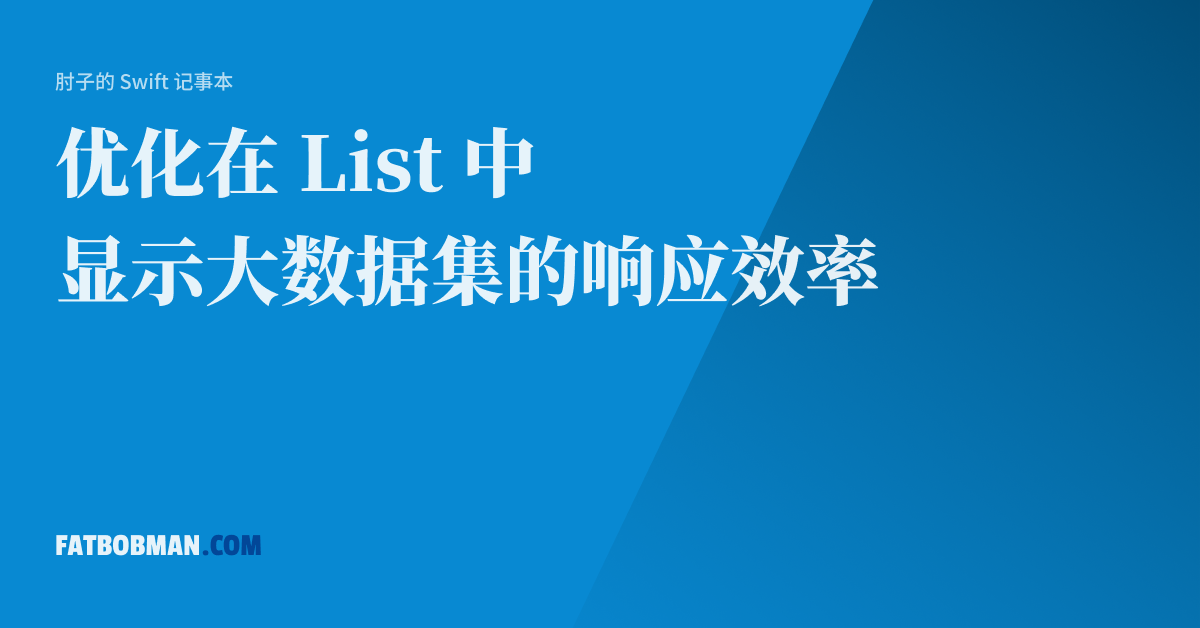
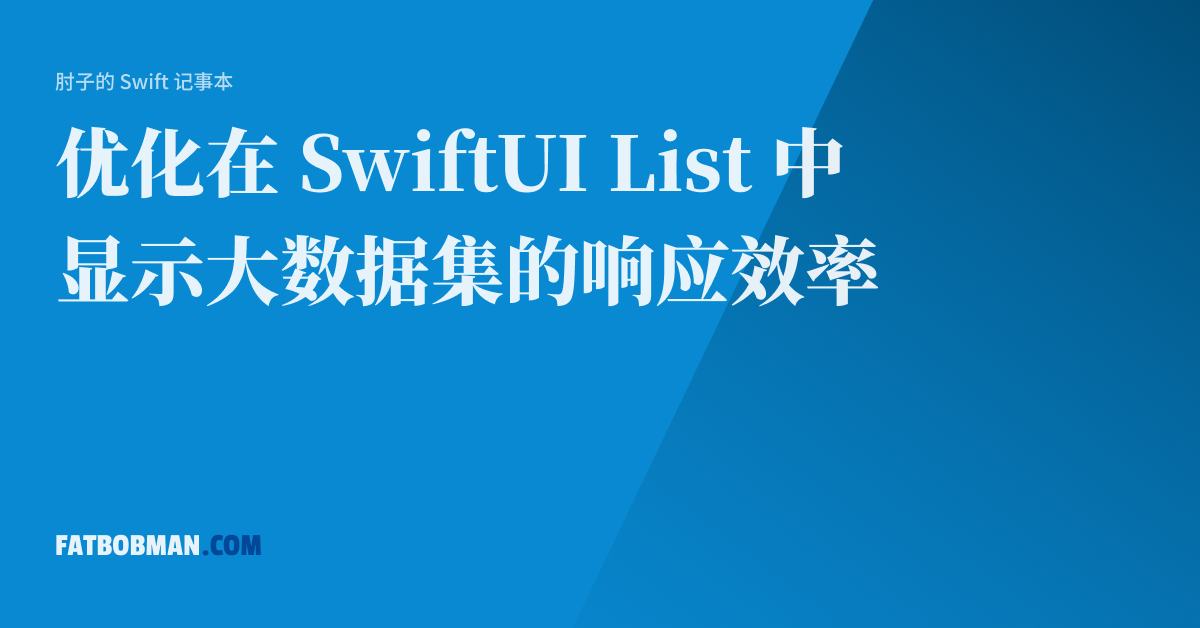
update title

Changed region(s): [[0.2467, 0.1815, 0.6167, 0.3328], [0.6475, 0.1815, 0.7092, 0.3328]]

diff --git a/Content/posts/optimize_the_response_efficiency_of_List.md b/Content/posts/optimize_the_response_efficiency_of_List.md
@@ -2,7 +2,7 @@
 date: 2022-04-26 08:12
 description: 拥有优秀的交互效果和手感，是很多 iOS 开发者长久以来坚守的原则。同样一段代码，在不同数据量级下的响应表现可能会有云泥之别。本文将通过一个优化列表视图的案例，展现在 SwiftUI 中查找问题、解决问题的思路，其中也会对 SwiftUI 视图的显式标识、@FetchRequest 的动态设置、List 的运作机制等内容有所涉及。本文的范例需运行在 iOS 15 及以上系统，技术特性也以 SwiftUI 3.0 为基础。
 tags: SwiftUI
-title: 优化在 List 中显示大数据集的响应效率
+title: 优化在 SwiftUI List 中显示大数据集的响应效率
 image: images/optimizeList.png
 ---
 拥有优秀的交互效果和手感，是很多 iOS 开发者长久以来坚守的原则。同样一段代码，在不同数据量级下的响应表现可能会有云泥之别。本文将通过一个优化列表视图的案例，展现在 SwiftUI 中查找问题、解决问题的思路，其中也会对 SwiftUI 视图的显式标识、@FetchRequest 的动态设置、List 的运作机制等内容有所涉及。本文的范例需运行在 iOS 15 及以上系统，技术特性也以 SwiftUI 3.0 为基础。
